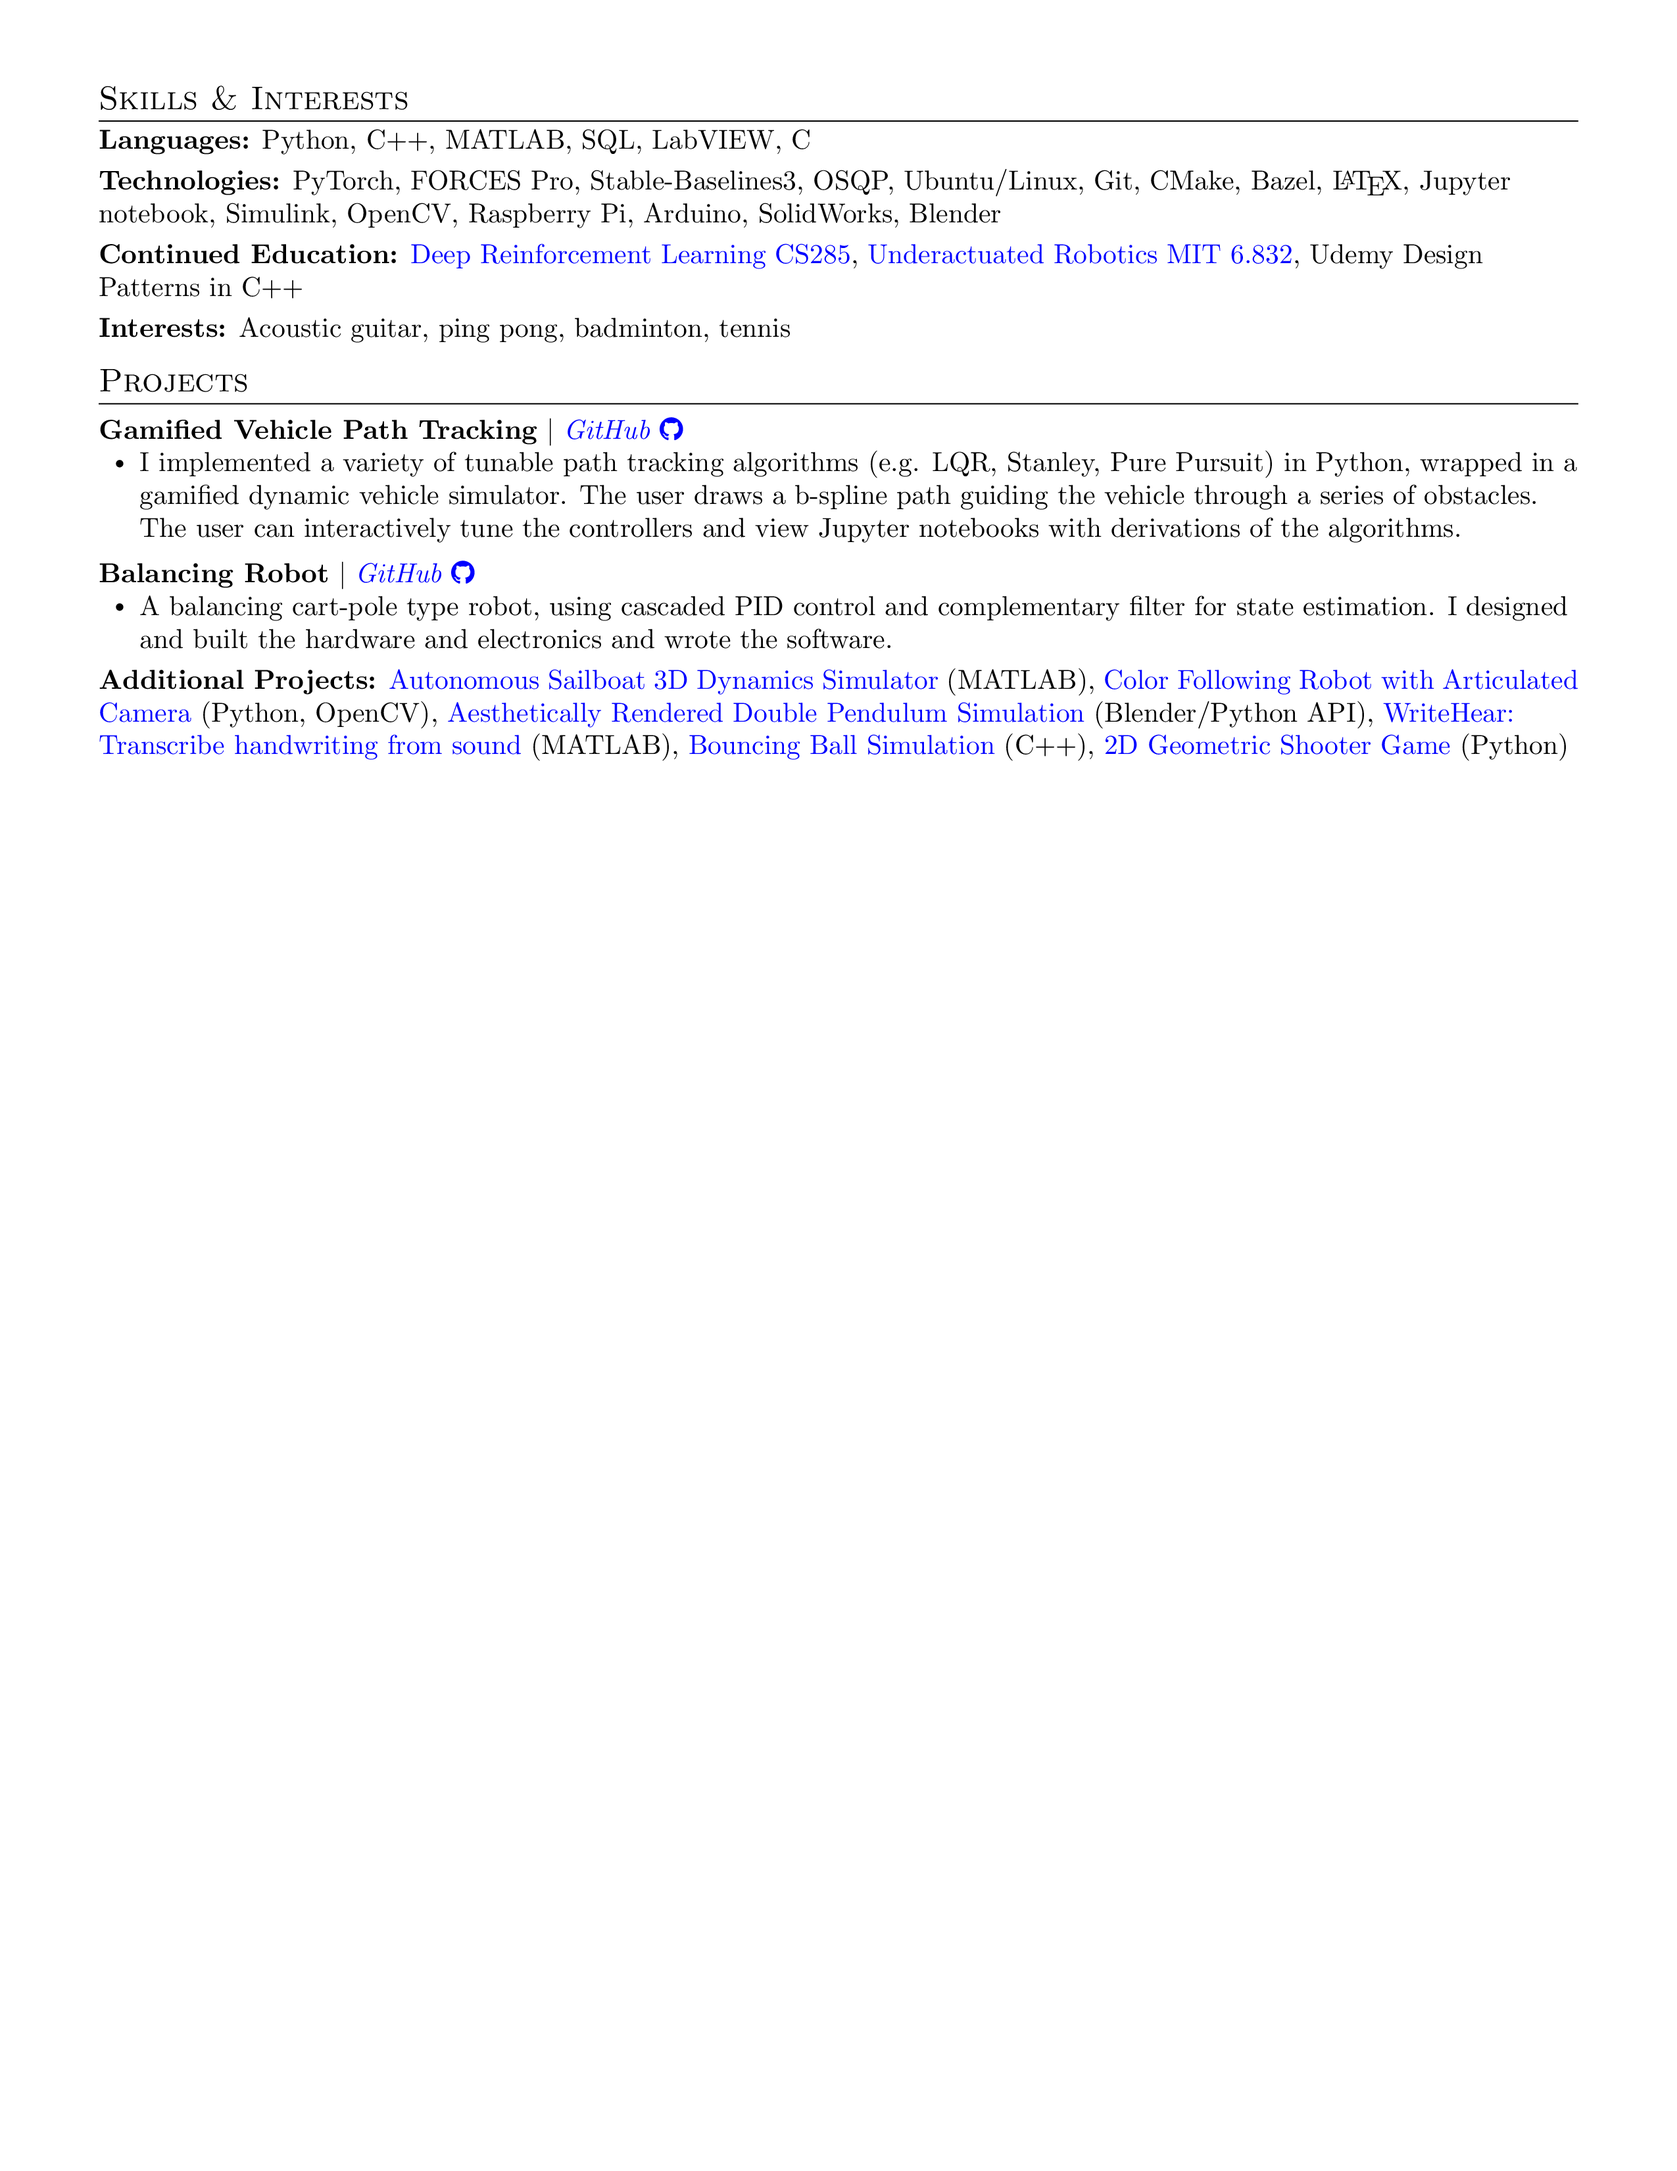
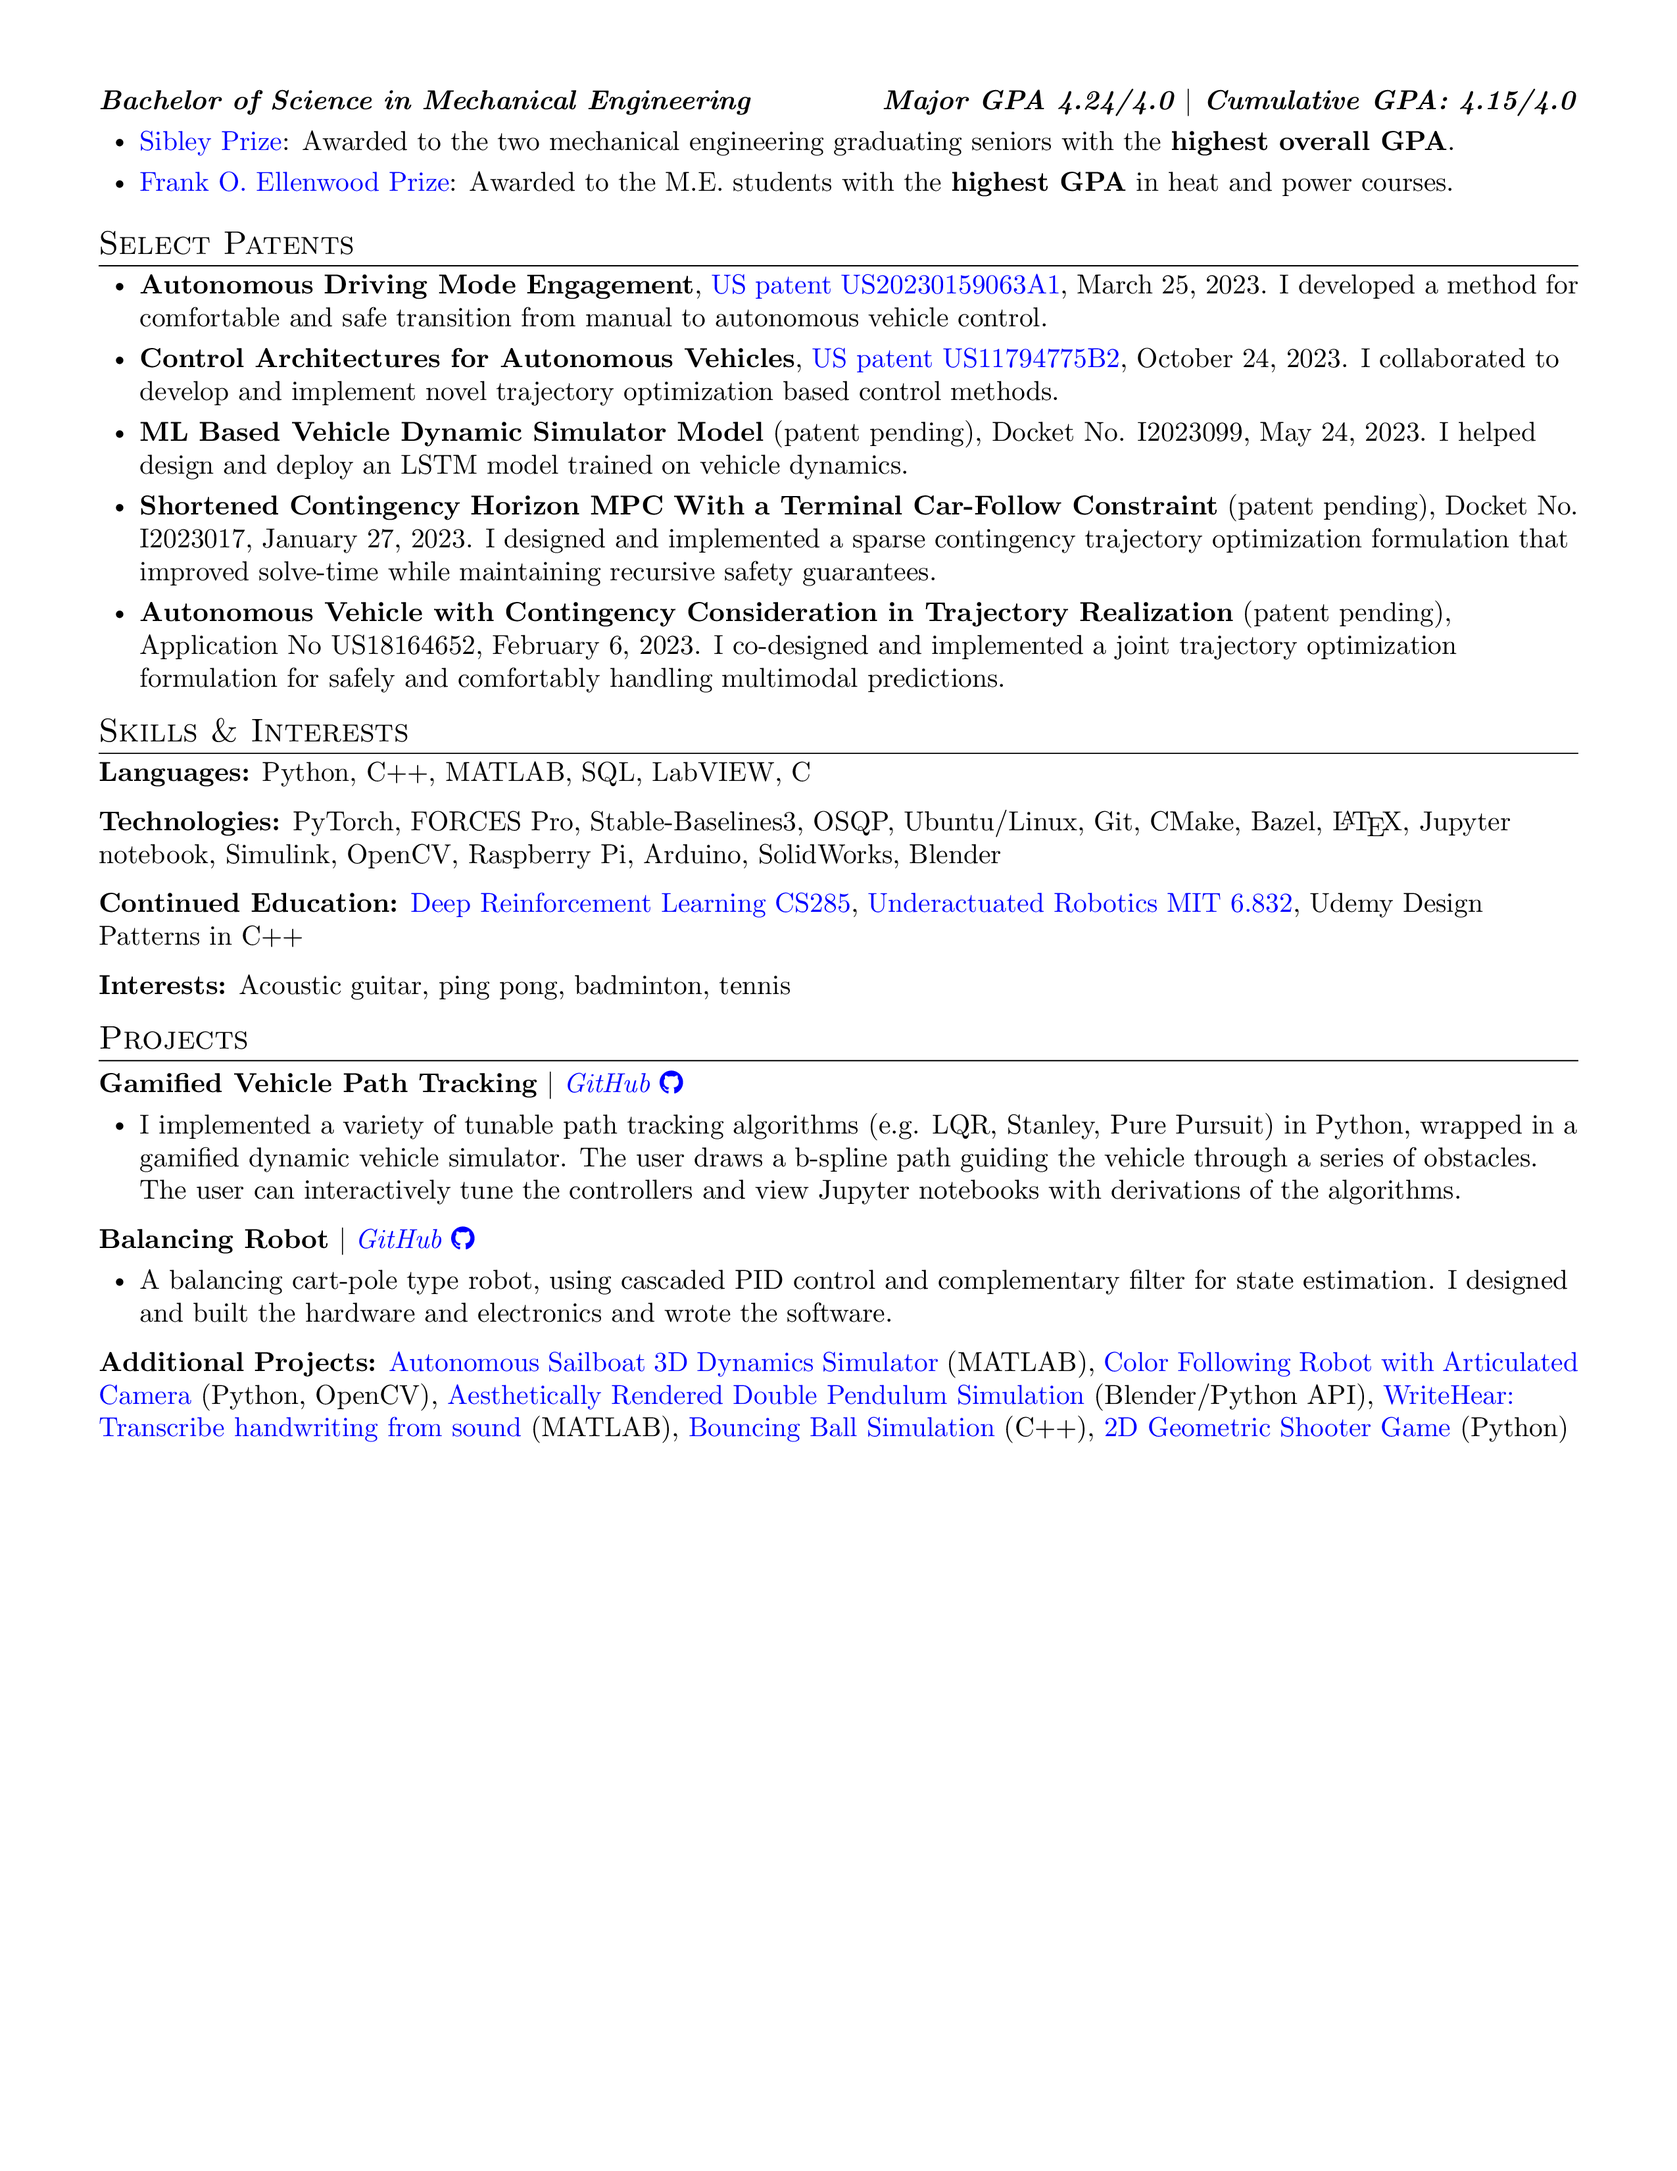
updates and personal statement

Changed region(s): [[0.062, 0.0312, 0.9294, 0.437], [0.062, 0.4682, 0.8984, 0.6555], [0.8984, 0.0312, 0.9294, 0.0624]]

diff --git a/jesse_miller_resume.tex b/jesse_miller_resume.tex
@@ -146,6 +146,8 @@
   \faMapMarker \hspace{\spaceAfterLogo} \href{https://maps.app.goo.gl/hpB8QGkNWpEHrJGD9}{Cambdrige, MA}
 \end{center}
 
+\section{Personal Statement}
+\small Seasoned Robotics Control Engineer specializing in autonomous vehicles. Expert in control theory, trajectory optimization, and reinforcement learning. Passionate about continuous learning, working on numerous side projects and taking online courses.
 
 %----------- EXPERIENCE -----------
 
@@ -158,7 +160,7 @@
 {Principal Robotics Control Engineer}{May 2024 \textbf{--} Present}
 \outerBulletListStart
 \bulletItem{Designed, trained, and deployed a \textbf{PPO-based RL Planner} using PyTorch which outperformed the company’s imitation learning based ML planner in comfort and safety in most scenarios in sim and on-vehicle.}
-\bulletItem{\textbf{Led a cross-org Reflexive Planner project}, a low latency task for collision prevention critical to achieving the Driverless milestone. Coded features that \textbf{reduced false-positive rate by 400\%} and designed regression tests and metrics for performance monitoring. Presented results directly to \textbf{Motional's CTO}.}
+\bulletItem{\textbf{Led a cross-org Reflexive Planner project}, a low latency task for collision prevention critical to achieving the Driverless milestone. Coded features that \textbf{reduced the false-positive rate by 400\%} and designed regression tests and metrics for performance monitoring. Presented results directly to \textbf{Motional's CTO}.}
 \bulletItem{Awarded Motional's monthly \textbf{"Mobilizer Award"} and consistently received "exceeds expectation" for every performance review.}
 \outerBulletListEnd
 
@@ -169,20 +171,20 @@
 \innerBulletListStart
 \bulletItem{Collaborated to implement and \textbf{patent a novel Contingency MPC} approach for handling multi-modal predictions in trajectory optimizer.}
 \bulletItem{Invented a novel algorithm for generating assertive lane change trajectories across planning control stack; deployed on AV.}
-\bulletItem{Tuned controller performance on-vehicle, contributing to investor analysts’ feedback that ride was \textbf{“smoother than Waymo’s”}.}
+\bulletItem{Tuned controller performance on-vehicle, contributing to investor analysts’ feedback that the ride was \textbf{“smoother than Waymo’s”}.}
 \innerBulletListEnd
 \bulletItem{Led Path Tracker Perfomance team (6 ppl) creating Python and SQL metric frameworks, automating release tests, and improving LQR tracking performance. Reduced rate of high cross-track error from \textbf{25 to 1 violation per 1K miles}.}
 \bulletItem{Collaborated with team to formulate and implement a \textbf{convex trajectory optimizer} using OSQP, reducing latency by 50\%.}
 \bulletItem{Developed MySQL metric dashboards for visualization, triage, and drilldown of controls related errors; monitored weekly.}
-\bulletItem{\textbf{Led Trajectory Formulation Team} for a quarter; defined team’s north star strategy, conducted one-on-ones, and oversaw successful demo deployment.}
-\bulletItem{Developed and patented an \textbf{ML based vehicle dynamics model} for simulation (LSTM in PyTorch) and deployed it in C++, reducing avg displacement error by 40\% compared to physics based model.}
+\bulletItem{\textbf{Led Trajectory Formulation Team} for a quarter; defined the team’s north star strategy, conducted one-on-ones, and oversaw successful demo deployment.}
+\bulletItem{Developed and patented an \textbf{ML based vehicle dynamics model} for simulation (LSTM in PyTorch) and deployed it in C++, reducing average displacement error by 40\% compared to physics based model.}
 \bulletItem{Primary code owner and developer for repo containing Python analysis scripts used for AV log visualization and debug, regularly used by 30+ people.}
 \outerBulletListEnd
 
 \titleAndDateHeading
 {Robotics Control Engineer III}{October 2018 \textbf{--} August 2020}
 \outerBulletListStart
-\bulletItem{Owner of a dynamic bicycle model based \textbf{path tracker module}, refactoring and integrating code during company merger.}
+\bulletItem{Owner of a dynamic bicycle model based \textbf{path tracker module}, refactoring and integrating code during the company merger.}
 \bulletItem{Designed and coded ‘Mock Planner’ \& ‘Fault Injection’ tools in C++ and Python used to stress test controller \& for vehicle operator training.}
 \bulletItem{Curated a set of ride comfort metrics (e.g. motion sickness likelihood), implementing extractors to monitor comfort trends.}
 \bulletItem{Mentored intern who explored trajectory optimizer solver modifications for improved latency and performance.}
@@ -243,9 +245,11 @@
 {Engineering Co-op Student}{January 2014 \textbf{--} August 2014}
 \outerBulletListStart
 \bulletItem{\textbf{Invented} a unique idea to listen to the sounds produced by handwriting and understand what was written.}
+\innerBulletListStart
 \bulletItem{Developed and \bref{https://github.com/jam643/WriteHear/tree/master}{coded a MATLAB program} to transcribe handwriting by only using a microphone.}
 \bulletItem{\bref{https://github.com/jam643/WriteHear/blob/master/WriteHear.pdf}{Presented my invention} in a \textbf{U.S. Air Force wide competition} against 37 other inventions.}
 \bulletItem{\textbf{Won} the competition and received \$15,000 in research funding and a patent for the invention.}
+\innerBulletListEnd
 \bulletItem{Designed in NX Unigraphics and performed an experiment to test the effects of unsteady flow through an intercooler.}
 \bulletItem{Published and presented \bref{https://www.researchgate.net/publication/290192705_Effect_of_Unsteady_Flow_on_Intercooler_Performance}{a conference paper} based on these findings in the SAE 2014 Aerospace Conference.}
 \outerBulletListEnd
@@ -269,7 +273,7 @@
 \companyNameAndLocationHeading
 {Cornell University, College of Engineering $|$ \small{Ithaca, NY}}{\textit{August 2015 \textbf{--} May 2016}}
 \titleAndDateHeading
-{Master of Engineering Robotics, Controls, and Dynamics}{\textbf{GPA: 4.17/4.0}}
+{Master of Engineering in Robotics, Controls, and Dynamics}{\textbf{GPA: 4.17/4.0}}
 \outerBulletListStart
 \bulletItem{\bref{https://www.mae.cornell.edu/news/sibley-school-mechanical-aerospace-engineering-student-awards-0}{Outstanding Achievement Award}: Given to top two MechE Masters students with the \textbf{highest academic standing}.}
 \bulletItem{\bref{https://www.mae.cornell.edu/news/sibley-school-mechanical-aerospace-engineering-student-awards-0}{Kelly Prize}: Excellence in aerospace engineering, received for research on a novel robotic sailboat design.}
@@ -307,17 +311,25 @@
 
 \section{Skills \& Interests}
 \sectionListStart
-\small{\item{
+\bulletItem{\textbf{Languages:}{ Python, C++, MATLAB, SQL, LabVIEW, C}}
+\vspace{\vspaceAfterBullets}
+\bulletItem{\textbf{Technologies:}{ PyTorch, FORCES Pro, Stable-Baselines3, OSQP, Ubuntu/Linux, Git, CMake, Bazel, \LaTeX, Jupyter notebook, Simulink, OpenCV, Raspberry Pi, Arduino, SolidWorks, Blender}}
+\vspace{\vspaceAfterBullets}
+\bulletItem{\textbf{Continued Education:}{ \bref{https://github.com/jam643/CS285DeepRL/tree/master}{Deep Reinforcement Learning CS285}, \bref{https://github.com/jam643/UnderactuatedRobotics-6p832-JesseM}{Underactuated Robotics MIT 6.832}, Udemy Design Patterns in C++}}
+\vspace{\vspaceAfterBullets}
+\bulletItem{\textbf{Interests:}{ Acoustic guitar, ping pong, badminton, tennis}}
 
-              \textbf{Languages:}{ Python, C++, MATLAB, SQL, LabVIEW, C} \\ \vspace{\vspaceAfterBullets}
+% \small{\item{
 
-              \textbf{Technologies:}{ PyTorch, FORCES Pro, Stable-Baselines3, OSQP, Ubuntu/Linux, Git, CMake, Bazel, \LaTeX, Jupyter notebook, Simulink, OpenCV, Raspberry Pi, Arduino, SolidWorks, Blender} \\ \vspace{\vspaceAfterBullets}
+%               \textbf{Languages:}{ Python, C++, MATLAB, SQL, LabVIEW, C} \\ \vspace{\vspaceAfterBullets}
 
-              \textbf{Continued Education:}{ \bref{https://github.com/jam643/CS285DeepRL/tree/master}{Deep Reinforcement Learning CS285}, \bref{https://github.com/jam643/UnderactuatedRobotics-6p832-JesseM}{Underactuated Robotics MIT 6.832}, Udemy Design Patterns in C++} \\ \vspace{\vspaceAfterBullets}
+%               \textbf{Technologies:}{ PyTorch, FORCES Pro, Stable-Baselines3, OSQP, Ubuntu/Linux, Git, CMake, Bazel, \LaTeX, Jupyter notebook, Simulink, OpenCV, Raspberry Pi, Arduino, SolidWorks, Blender} \\ \vspace{\vspaceAfterBullets}
 
-              \textbf{Interests:}{ Acoustic guitar, ping pong, badminton, tennis} \\ \vspace{\vspaceAfterBullets}
+%               \textbf{Continued Education:}{ \bref{https://github.com/jam643/CS285DeepRL/tree/master}{Deep Reinforcement Learning CS285}, \bref{https://github.com/jam643/UnderactuatedRobotics-6p832-JesseM}{Underactuated Robotics MIT 6.832}, Udemy Design Patterns in C++} \\ \vspace{\vspaceAfterBullets}
 
-        }}
+%               \textbf{Interests:}{ Acoustic guitar, ping pong, badminton, tennis} \\ \vspace{\vspaceAfterBullets}
+
+%         }}
 \sectionListEnd
 
 %----------- PROJECTS -----------
